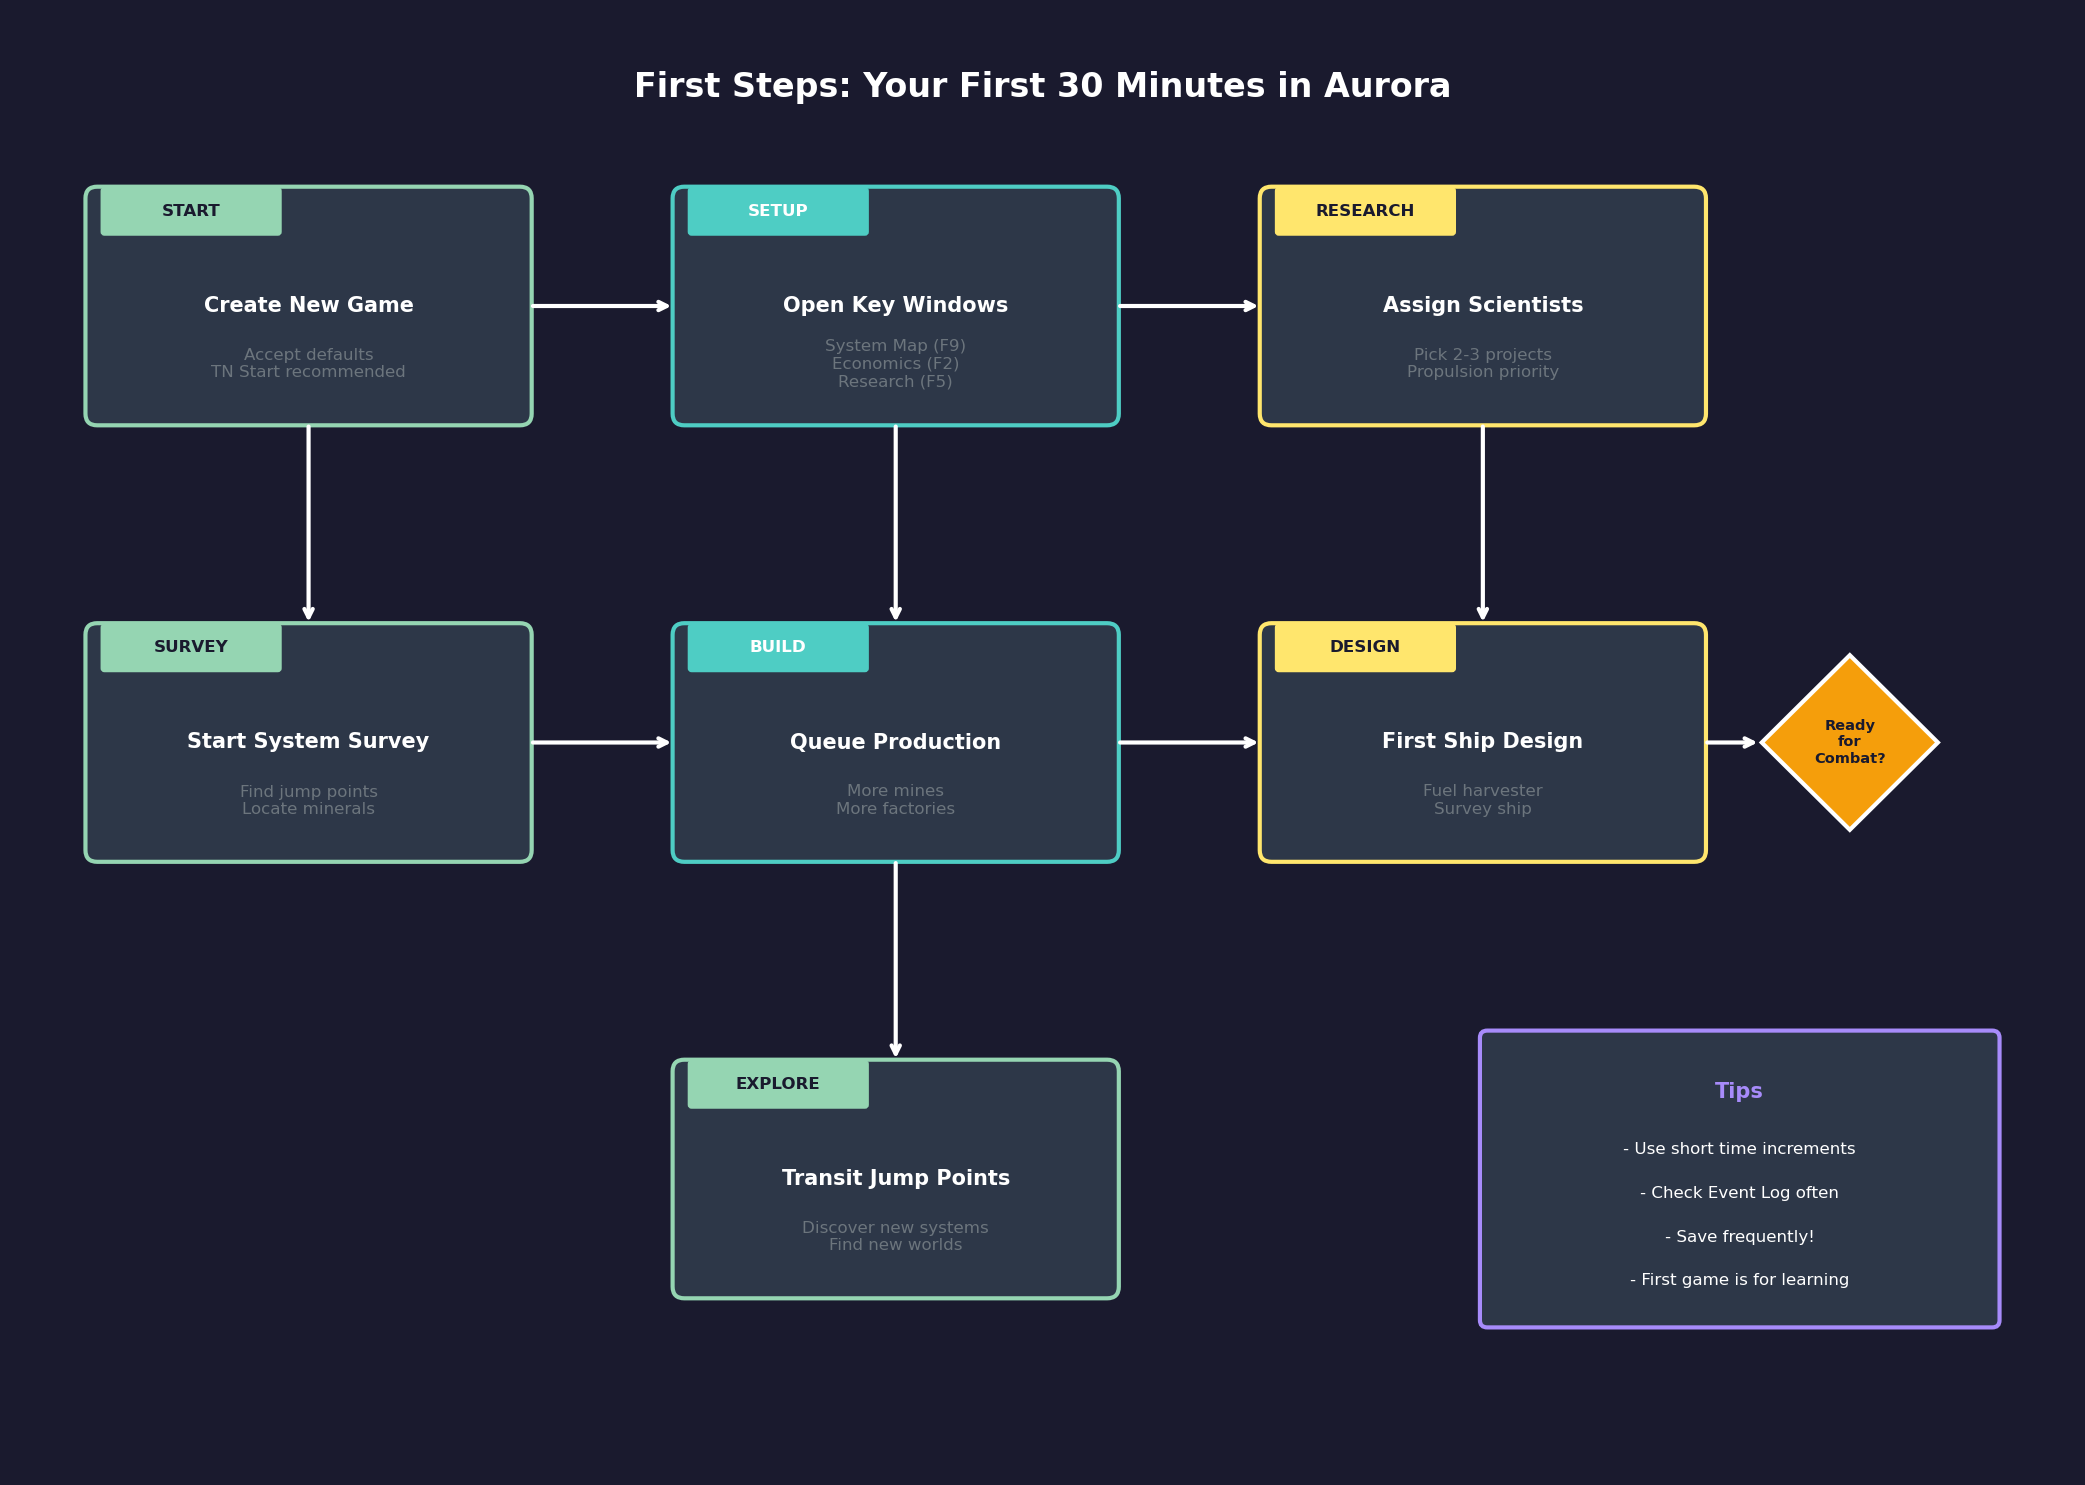
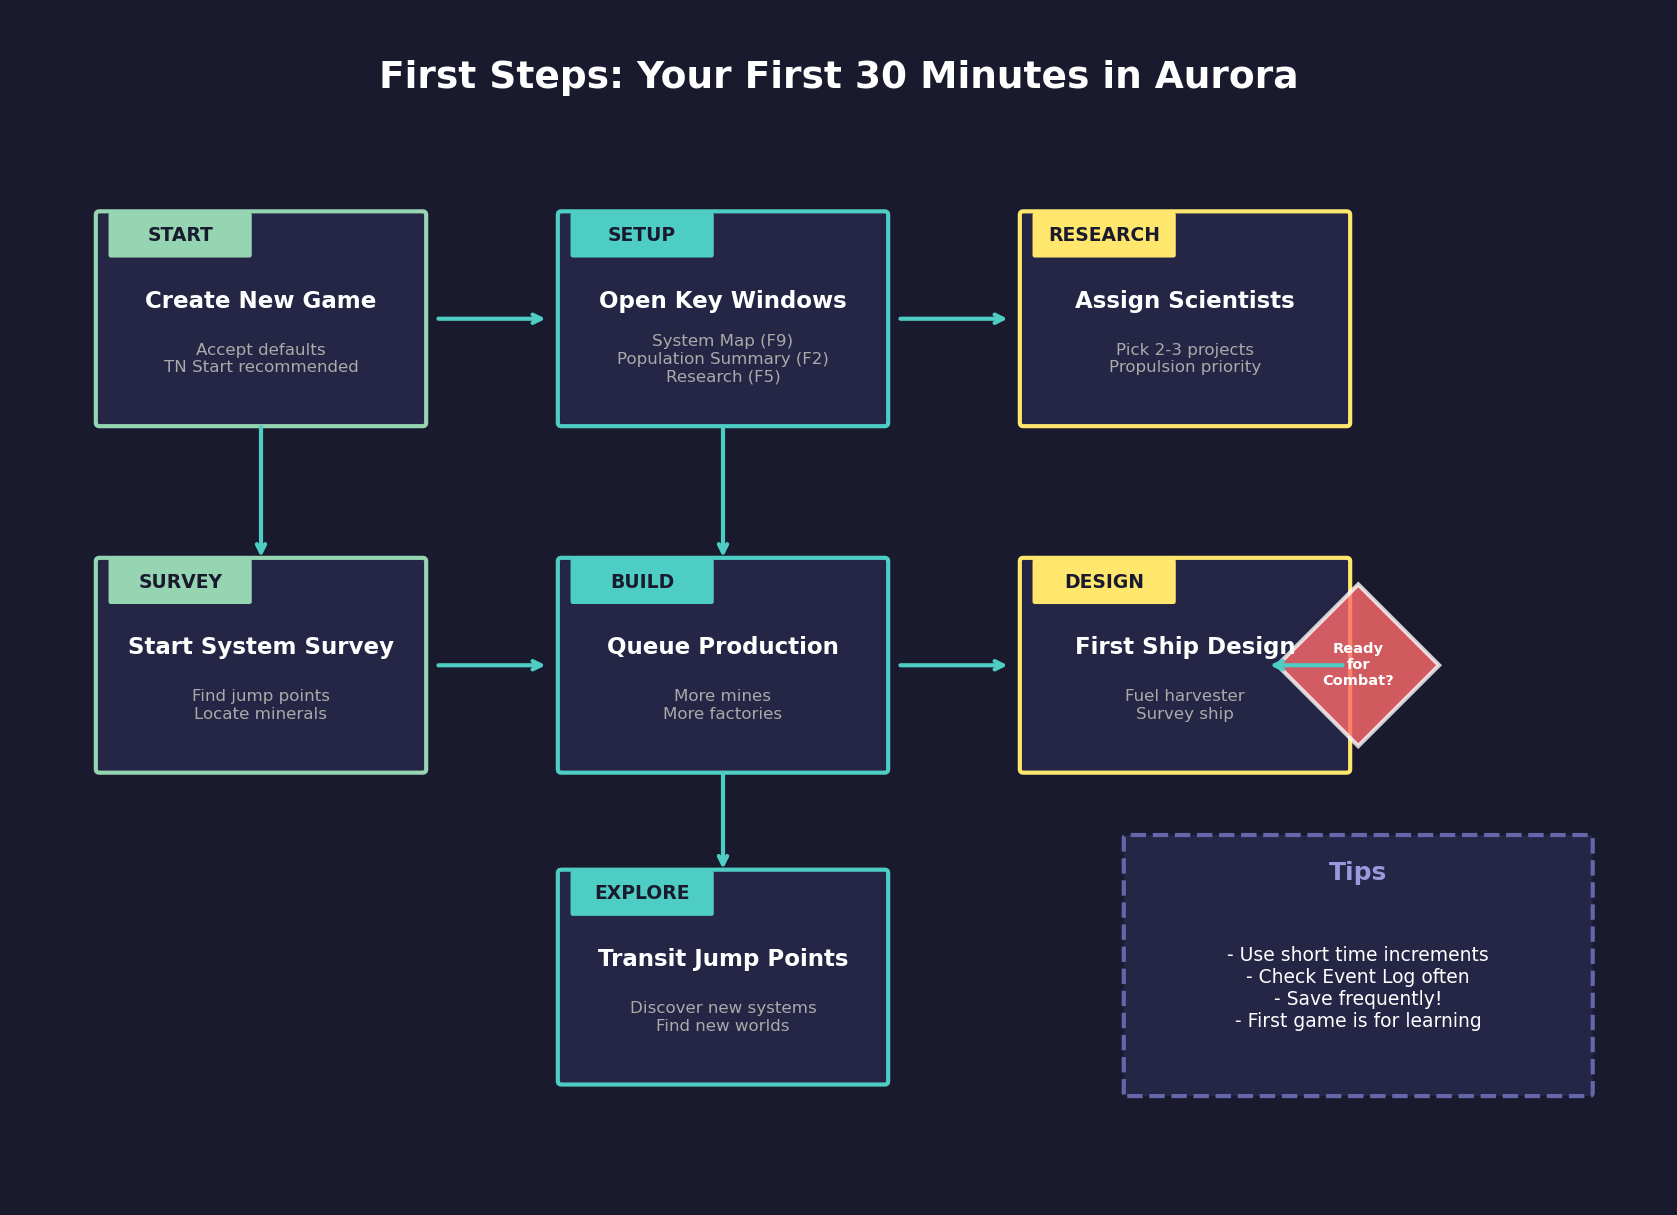
Fix F2 shortcut and folder structure documentation
- Fix First Steps diagram: 'Economics (F2)' -> 'Population Summary (F2)'
- Update folder structure to include Hulls, Portraits, Stations folders

Changed region(s): [[0.031, 0.1218, 0.9302, 0.9136], [0.6822, 0.67, 0.9612, 0.9136], [0.2171, 0.0305, 0.7752, 0.0914]]

diff --git a/1-introduction/1.2-installation.md b/1-introduction/1.2-installation.md
@@ -73,9 +73,11 @@ Aurora does not use an installer. Setup consists of extracting files and running
    - `Aurora.exe` — The main executable
    - `AuroraDB.db` — The SQLite database (this is your save file)
    - Various `.dll` files — Runtime dependencies
-   - `Maps` folder — Star system map images (optional)
    - `Flags` folder — Race flag images
-   - Other supporting files and folders
+   - `Hulls` folder — Ship hull graphics
+   - `Maps` folder — Star system map images (optional)
+   - `Portraits` folder — Commander portrait images
+   - `Stations` folder — Station graphics
 
 ![Figure 1.2.3: Aurora Installation Folder Structure](../images/diagrams/1-introduction/1.2-folder-structure.png)
 
